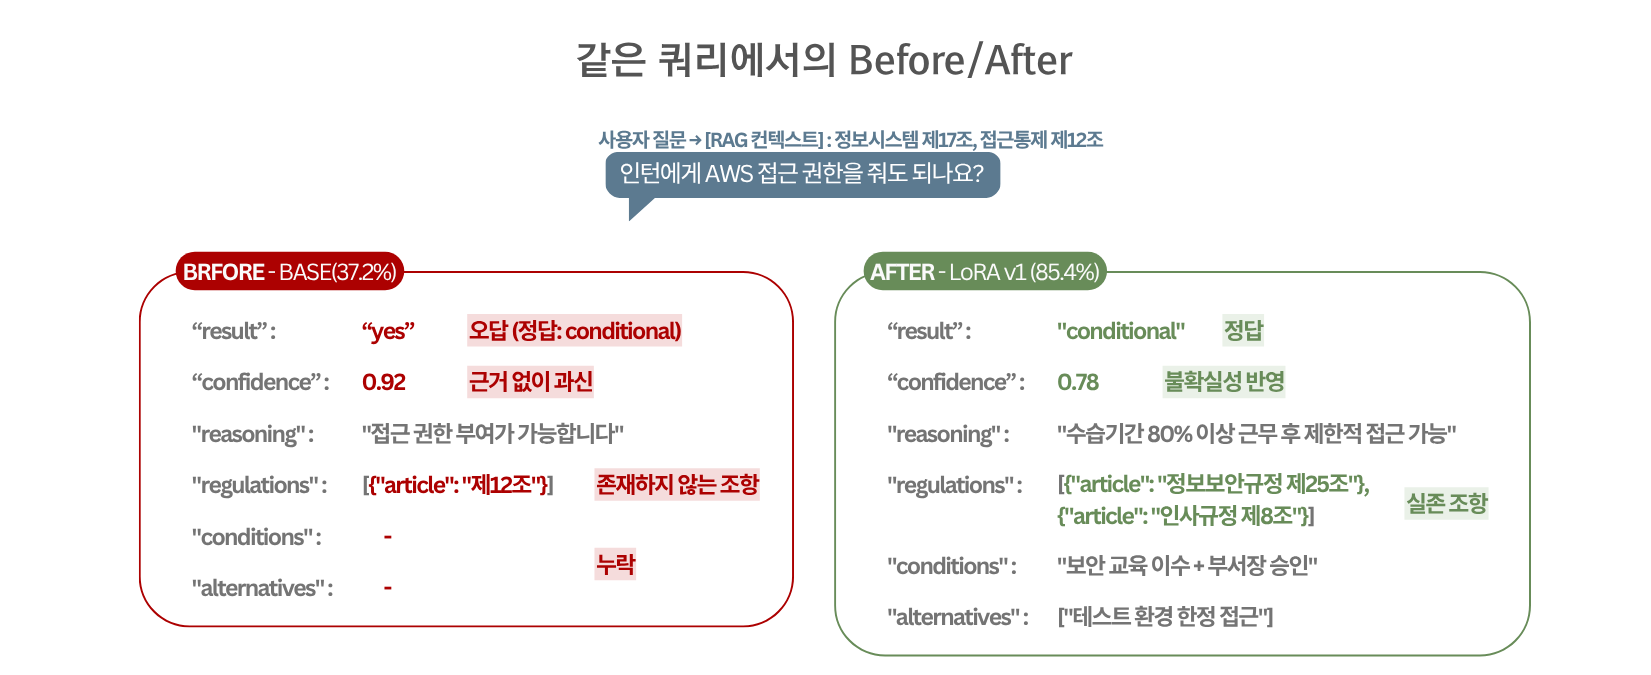
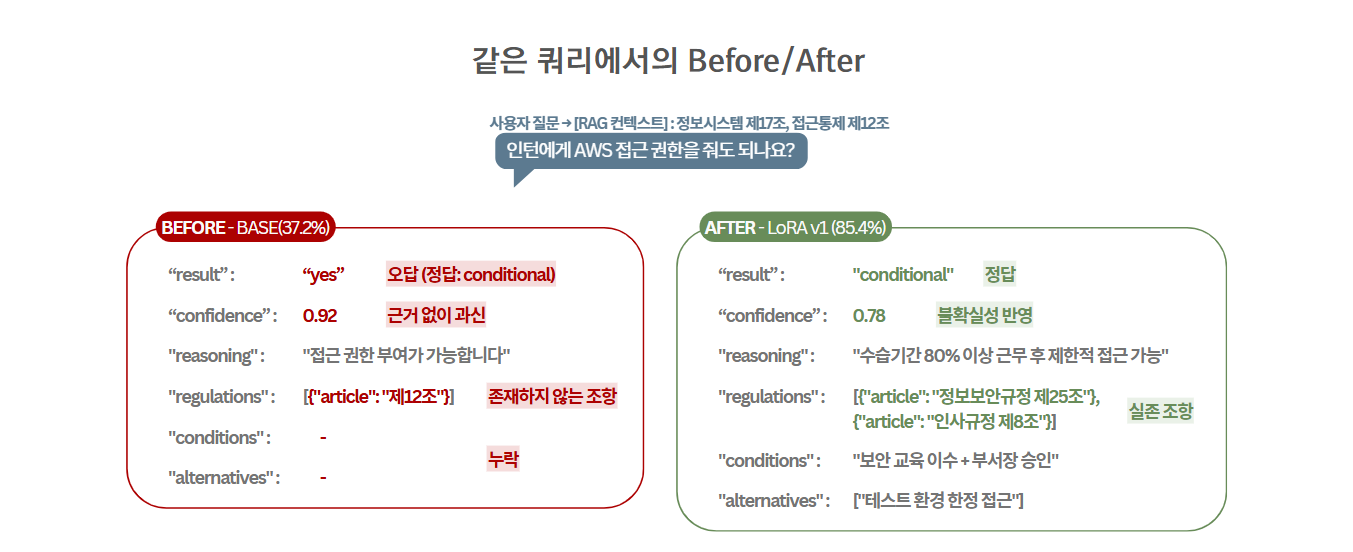
WorkFlow Before/After 이미지 오타 수정 + 이력서 톤 최종 개선
- workflow-before-after.png 오타 수정
- resume-agent.html: Summary 선언형 전환, 프로젝트별 경험 기반 문장 추가, 회고 판단형 통일, 링크 주황색 포인트

diff --git a/submit/resume-agent.html b/submit/resume-agent.html
@@ -19,7 +19,7 @@ h3 { font-size: 0.95rem; font-weight: 700; margin-bottom: 0.15rem; }
 .header-center h1 { font-family: "Syne", sans-serif; font-size: 2rem; font-weight: 800; letter-spacing: -0.02em; }
 .header-center .role { font-size: 0.95rem; color: #555; margin-top: 0.1rem; }
 .header-right { text-align: right; font-size: 0.8rem; color: #555; line-height: 1.9; }
-.header-right a { font-weight: 600; }
+.header-right a { font-weight: 600; color: #e67e22; }
 
 /* Summary */
 .summary-box { background: #f7f7f7; border-top: 3px solid #1a1a1a; padding: 1rem 1.2rem; margin-bottom: 0.5rem; font-size: 0.88rem; color: #333; line-height: 1.8; }
@@ -45,7 +45,7 @@ h3 { font-size: 0.95rem; font-weight: 700; margin-bottom: 0.15rem; }
 .project-head { display: flex; justify-content: space-between; align-items: baseline; margin-bottom: 0.2rem; }
 .meta { font-size: 0.75rem; color: #999; flex-shrink: 0; }
 .project-link { font-size: 0.75rem; color: #888; margin-bottom: 0.5rem; }
-.project-link a { color: #555; }
+.project-link a { color: #e67e22; font-weight: 600; }
 .project-desc { font-size: 0.85rem; color: #555; margin-bottom: 0.7rem; padding: 0.6rem 0.8rem; background: #fafafa; border-radius: 6px; border-left: 3px solid #ddd; }
 .project ul { list-style: none; padding: 0; }
 .project li { font-size: 0.82rem; color: #444; margin-bottom: 0.5rem; padding-left: 0; line-height: 1.7; }
@@ -83,10 +83,12 @@ h3 { font-size: 0.95rem; font-weight: 700; margin-bottom: 0.15rem; }
 
 <!-- Summary -->
 <div class="summary-box">
-  <strong>Agent 파이프라인 설계</strong> — LangGraph 3-node 파이프라인으로 의도 분류 → 조건분기 → 생성을 분리하여 불필요한 LLM 호출 제거, 요청당 비용 85% 절감.<br>
-  <strong>Agent 품질 검증 체계</strong> — 4중 Guardrail + 5-factor Confidence 보정 + LoRA 3회 반복 실험으로 정확도 37%→85% 개선. "데이터 양보다 약점 타겟팅"으로 전략 전환.<br>
-  <strong>정량 평가 기반 병목 진단</strong> — RAGAS 4개 지표로 검색·생성을 분리 측정하여 "LLM이 아닌 embedding"이 병목임을 특정, Context Precision +14.4% 달성.<br>
-  <span style="color:#888; font-size:0.82rem;">3개 프로젝트(6개월)에서 40개 API 엔드포인트 설계 · 2,500+ 시설 데이터 대상 3종 의도 분기 구현 · Flask→Django 프로덕션 전환 + AWS 배포 수행.</span>
+  존재하지 않는 조항을 확신 있게 인용하는 응답을 경험하며, LLM 출력은 신뢰 대상이 아니라 검증 대상이라고 판단했습니다.<br>
+  저는 모델 성능이 아닌 시스템 구조로 정확도를 개선합니다. 측정 없이 개선하지 않습니다.<br><br>
+  <strong>LLM 호출을 줄이는 구조로 비용 85% 절감</strong> — 의도 분류 기반 3-node 파이프라인 설계.<br>
+  <strong>Guardrail 설계로 환각·과신 차단</strong> — 4중 검증 + Confidence 보정. 정확도 37%→85%.<br>
+  <strong>정량 지표로 병목 특정</strong> — RAGAS로 검색·생성 분리 측정. Precision +14.4%.<br>
+  <span style="color:#888; font-size:0.82rem;">3개 프로젝트(6개월) · 40 API · 2,500+ 시설 3종 의도 분기 · Flask→Django + AWS 배포.</span>
 </div>
 
 <!-- Education -->
@@ -143,51 +145,51 @@ h3 { font-size: 0.95rem; font-weight: 700; margin-bottom: 0.15rem; }
 <!-- Seoul Culture Map -->
 <div class="project">
   <div class="project-head">
-    <h3>Seoul Culture Map — LangGraph 3-node Agent + ChromaDB RAG</h3>
+    <h3>Seoul Culture Map <span style="font-weight:400;color:#888;">— LLM 호출을 줄이는 구조로 비용 85% 절감</span></h3>
     <div class="meta">Personal · 2026.03 ~</div>
   </div>
-  <div class="project-link"><a href="https://github.com/ykgstar37-lab/seoul-culture-map">github.com/ykgstar37-lab/seoul-culture-map</a></div>
-  <div class="project-desc">서울시 2,500+ 문화시설 탐색 서비스에 Agentic RAG 파이프라인을 설계. LangGraph 기반 Intent→Retrieve→Generate 3-node 그래프 + ChromaDB 시맨틱 검색 + SSE 스트리밍 챗봇.</div>
+  <div class="project-link"><a href="https://github.com/ykgstar37-lab/seoul-culture-map">github.com/ykgstar37-lab/seoul-culture-map</a> · LangGraph · ChromaDB · FastAPI · SSE</div>
+  <div class="project-desc">학술제 군집분석 결과가 PDF로만 남아 아무도 쓸 수 없었던 경험에서 출발. 모든 요청에 LLM을 호출할 필요가 없다는 판단으로, 의도 분류 기반 3-node 파이프라인을 설계.</div>
   <ul>
-    <li><strong>Problem:</strong> "안녕"과 "강남구 박물관 추천"이 같은 파이프라인을 타며, 매 요청마다 전체 컨텍스트를 주입해야 해서 비용이 높고 응답 품질 제어 불가.</li>
-    <li><strong>Solution:</strong> LangGraph 3-node 파이프라인 — Intent(GPT-4o-mini)로 3종 의도 분류 → 일상대화는 검색 스킵 → SQL+ChromaDB 병렬 검색(LLM 비용 $0) → SSE 스트리밍 응답. 로컬 임베딩(all-MiniLM-L6-v2) + 세션 메모리(10턴, SQLite).</li>
-    <li><strong>Result:</strong> 요청당 비용 <strong>85% 절감</strong>(~$0.003) · 임베딩 비용 $0 · SSE 첫 토큰 ~500ms · 15 API 엔드포인트.</li>
+    <li><strong>Problem:</strong> "안녕"과 "강남구 박물관 추천"이 같은 파이프라인을 탐. 비용과 품질 모두 제어 불가.</li>
+    <li><strong>Solution:</strong> LangGraph 3-node. Intent 분류로 일상대화는 검색 스킵. SQL+ChromaDB 병렬 검색(LLM 비용 $0). SSE 스트리밍 + 세션 메모리(10턴).</li>
+    <li><strong>Result:</strong> 비용 <strong>85% 절감</strong>(~$0.003/req) · 임베딩 $0(로컬) · 첫 토큰 ~500ms · 15 API.</li>
   </ul>
-  <div class="retro">핵심 인사이트: Agent 파이프라인의 핵심은 "언제 LLM을 호출하지 않을지" — 노드를 추가하면 복잡해진다는 직관과 달리, 조건분기가 파이프라인을 단순화한다.</div>
+  <div class="retro">조건분기는 복잡도를 높이는 것이 아니라 낮추는 설계라고 확인했다. 이 경험이 이후 WorkFlow Agent의 멀티 에이전트 라우팅 설계로 이어졌다.</div>
   <div class="project-tags"><span class="tag hl">LangGraph</span><span class="tag hl">ChromaDB</span><span class="tag">FastAPI</span><span class="tag">SSE</span><span class="tag">SQLite</span><span class="tag">React 19</span><span class="tag">Leaflet</span><span class="tag">scikit-learn</span><span class="tag">GPT-4o-mini</span></div>
 </div>
 
 <!-- WorkFlow Agent -->
 <div class="project">
   <div class="project-head">
-    <h3>WorkFlow Agent — 4중 Guardrail + Confidence 보정 품질 체계</h3>
+    <h3>WorkFlow Agent <span style="font-weight:400;color:#888;">— Guardrail 설계로 환각·과신 차단, 정확도 37%→85%</span></h3>
     <div class="meta">Team(4명) · 2026.02 ~ 04</div>
   </div>
-  <div class="project-link"><a href="https://github.com/SKNETWORKS-FAMILY-AICAMP/SKN21-FINAL-3TEAM">github.com/SKNETWORKS-FAMILY-AICAMP/SKN21-FINAL-3TEAM</a></div>
-  <div class="project-desc">사내 규정 판단 Agent의 오답·환각·과신을 시스템적으로 차단하는 품질 검증 체계 설계. vLLM + LoRA 기반 프라이빗 sLLM 서빙. 담당: Judgment Agent 품질 보장, 9단계 RAG, LoRA 파인튜닝.</div>
+  <div class="project-link"><a href="https://github.com/SKNETWORKS-FAMILY-AICAMP/SKN21-FINAL-3TEAM">github.com/SKNETWORKS-FAMILY-AICAMP/SKN21-FINAL-3TEAM</a> · vLLM · LoRA · Qdrant · FastAPI</div>
+  <div class="project-desc">sLLM이 confidence 0.95를 출력하면서 틀린 답을 내는 상황을 반복적으로 마주하며, 모델 성능 개선보다 시스템 레벨 검증이 더 효과적이라고 결론 내렸다.</div>
   <ul>
-    <li><strong>Problem:</strong> Base 모델이 "인턴에게 AWS 접근 권한을 줘도 되나요?"에 "yes"(오답) + confidence 0.92(과신) + "제12조"(미존재 조항 환각) 반환. 정확도 37.2%. LoRA v2에서 98건 무작위 추가 시 라벨 오염으로 오히려 -3.2%p 하락.</li>
-    <li><strong>Solution:</strong> 4중 Guardrail(키워드 매칭·조항 존재 검증·카테고리 제한·500건 FIFO 일관성 모니터링) + 5-factor Confidence 보정(Hard Cap: RAG 품질 &lt; 0.2 → max 0.4). LoRA v3에서 19건만 약점 정밀 타겟팅(재량 표현 14 + 경계 케이스 5)으로 전략 전환.</li>
-    <li><strong>Result:</strong> 판단 정확도 <strong>37%→85%</strong> · confidence 과신(0.92)→적절(0.78) · 환각 차단 → 실존 조항 2건 인용 · JSON 유효율 70%→97% · GPT 의존 제거(vLLM 프라이빗 서빙).</li>
+    <li><strong>Problem:</strong> "인턴에게 AWS 접근 권한을 줘도 되나요?" → "yes"(오답) + confidence 0.92(과신) + "제12조"(미존재 조항). 정확도 37.2%.</li>
+    <li><strong>Solution:</strong> 4중 Guardrail로 환각 차단. 5-factor Confidence 보정으로 과신 제한. LoRA v3에서 19건만 약점 타겟팅.</li>
+    <li><strong>Result:</strong> 정확도 <strong>37%→85%</strong> · confidence 0.92→0.78 · 환각→실존 조항 2건 인용 · JSON 유효율 70%→97%.</li>
   </ul>
-  <div class="retro">핵심 인사이트: 모델 성능을 높이는 것보다 서버 레벨에서 출력을 검증·보정하는 구조가 더 효과적. 데이터는 양이 아닌 약점 타겟팅이 품질을 결정한다.</div>
+  <div class="retro">LLM 출력은 검증 대상이지 신뢰 대상이 아니라는 결론을 내렸다. LoRA v2에서 98건 추가 시 -3.2%p 하락한 경험이 전환점이 되어, 데이터는 양이 아닌 약점 타겟팅이 품질을 결정한다는 원칙을 확립했다.</div>
   <div class="project-tags"><span class="tag hl">vLLM</span><span class="tag hl">LoRA</span><span class="tag hl">LangGraph</span><span class="tag">Qdrant</span><span class="tag">KoELECTRA</span><span class="tag">FastAPI</span><span class="tag">SSE</span><span class="tag">RunPod A100</span><span class="tag">Docker</span></div>
 </div>
 
 <!-- PyMate -->
 <div class="project">
   <div class="project-head">
-    <h3>PyMate — RAGAS 기반 RAG 병목 진단 + 임베딩 최적화</h3>
+    <h3>PyMate <span style="font-weight:400;color:#888;">— 정량 지표로 병목 특정, Precision +14.4%</span></h3>
     <div class="meta">Team(4명) · 2026.01 ~ 02</div>
   </div>
-  <div class="project-link"><a href="https://github.com/SKNETWORKS-FAMILY-AICAMP/SKN21-4th-4Team">github.com/SKNETWORKS-FAMILY-AICAMP/SKN21-4th-4Team</a></div>
-  <div class="project-desc">Python 학습 도우미 RAG 챗봇의 답변 품질을 RAGAS 지표로 분리 측정하여 진짜 병목을 특정. 담당: Qdrant 벡터 DB 설계, embedding 차원 최적화, Django 프로덕션 배포.</div>
+  <div class="project-link"><a href="https://github.com/SKNETWORKS-FAMILY-AICAMP/SKN21-4th-4Team">github.com/SKNETWORKS-FAMILY-AICAMP/SKN21-4th-4Team</a> · Qdrant · RAGAS · Django · AWS</div>
+  <div class="project-desc">"답변이 부정확하다"는 피드백이 반복되었지만 원인을 모르는 상태였다. 감으로 모델을 바꾸기보다 RAGAS 도입을 제안하여 병목을 특정하고 구조적으로 해결했다.</div>
   <ul>
-    <li><strong>Problem:</strong> "답변이 부정확하다"는 피드백 반복. 팀에서 "LLM을 바꾸자"는 의견이 나왔지만, 원인이 LLM인지 검색인지 구분 불가 — 감으로 약을 바꾸는 상태.</li>
-    <li><strong>Solution:</strong> RAGAS 4개 지표 도입을 제안하여 검색·생성 분리 측정. Faithfulness 높음 + Context Precision 낮음 → 병목은 embedding 검색 품질로 재정의. 768D→3,072D 교체 + Qdrant 재설계. Reranker cross-encoder 경량화(-1초). Flask→Django 전환 + AWS EC2 배포.</li>
-    <li><strong>Result:</strong> Context Precision <strong>0.83→0.97</strong>(+14.4%) · Recall <strong>0.70→0.79</strong>(+12.7%) · Reranker 레이턴시 -1초 · Nginx→Gunicorn→Django 소켓 바인딩 502 에러 직접 해결.</li>
+    <li><strong>Problem:</strong> 팀에서 "LLM을 바꾸자"는 의견이 나옴. 원인 모르는 상태에서 모델을 바꾸는 건 감으로 약을 바꾸는 것과 같다고 판단.</li>
+    <li><strong>Solution:</strong> RAGAS 4개 지표로 검색·생성 분리 측정. 병목은 embedding으로 재정의. 768D→3,072D 교체 + Qdrant 재설계. Reranker 경량화(-1초). Flask→Django + AWS 배포.</li>
+    <li><strong>Result:</strong> Precision <strong>0.83→0.97</strong>(+14.4%) · Recall <strong>0.70→0.79</strong>(+12.7%) · Reranker -1초 · 502 에러 직접 해결.</li>
   </ul>
-  <div class="retro">핵심 인사이트: "모호한 피드백을 정량 지표로 번역하여 구조적 원인을 특정하는 것"이 RAG 시스템 개선의 출발점.</div>
+  <div class="retro">"답변이 안 좋다"는 증상이지 진단이 아니라는 결론을 내렸다. 이 경험이 이후 프로젝트에서 "측정 먼저, 개선은 그 다음"이라는 원칙으로 이어졌다.</div>
   <div class="project-tags"><span class="tag hl">Qdrant</span><span class="tag hl">RAGAS</span><span class="tag">text-embedding-3-large</span><span class="tag">cross-encoder Reranker</span><span class="tag">LangChain</span><span class="tag">Django</span><span class="tag">Nginx</span><span class="tag">AWS EC2</span></div>
 </div>
 
@@ -196,7 +198,7 @@ h3 { font-size: 0.95rem; font-weight: 700; margin-bottom: 0.15rem; }
 <div class="two-col">
   <div class="stat-item">
     <h3>암호화폐 변동성 GARCH 분석 <span style="font-size:0.72rem;color:#999;font-weight:400;">2023.12~2024.01</span></h3>
-    <p>5개 GARCH 모형 비교 → HAR-TGARCH-X 선택(R²=0.89). ADF·ARCH-LM 사전 검정, AIC/BIC 기반 모형 선택 과정을 통해 <strong>통계적 모형 선택의 판단 기준</strong>을 체득.</p>
+    <p>5개 GARCH 모형 비교 → HAR-TGARCH-X 선택(R²=0.89). ADF·ARCH-LM 사전 검정, AIC/BIC 기반 모형 선택 과정이 이후 RAG 파이프라인에서 <strong>정량 지표 기반 의사결정의 기초</strong>가 되었다.</p>
   </div>
   <div class="stat-item">
     <h3>서울 관광 군집분석 → Seoul Culture Map 서비스 확장 <span style="font-size:0.72rem;color:#999;font-weight:400;">2023.09~11 · 학술제 2등상</span></h3>
